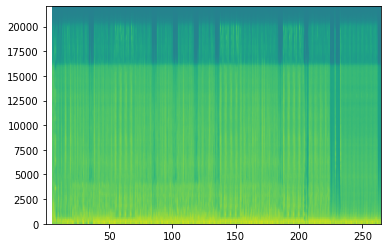
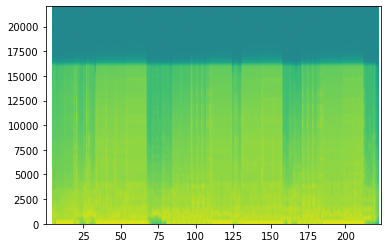
minor update

diff --git a/readme.md b/readme.md
@@ -109,10 +109,10 @@ song_queues = [
         "last_beat": 368,
     },
     {
-        "folder": "Vanilla Ice - Ice Ice Baby",
+        "folder": "Scooter - Maria (I Like It Loud)",
         "first_beat": 8,
-        "last_beat": 505,
-    }
+        "last_beat": 510
+      },
 ]
 ```
 
@@ -946,8 +946,8 @@ for song in song_queues:
 
     16 368
     Alphaville - Big In Japan - 97.79 random seed: 27057 -61481
-    Total run time: 24.37 seconds
-    44100 11662930
+    Total run time: 23.91 seconds
+    44100 9856018
 
 
 
@@ -956,9 +956,9 @@ for song in song_queues:
     
 
 
-    8 505
-    Vanilla Ice - Ice Ice Baby random seed: 22864 -266454
-    Total run time: 32.58 seconds
+    8 510
+    Scooter - Maria (I Like It Loud) random seed: 18503 12219149
+    Total run time: 30.86 seconds
 
 
 ## Conclusion
